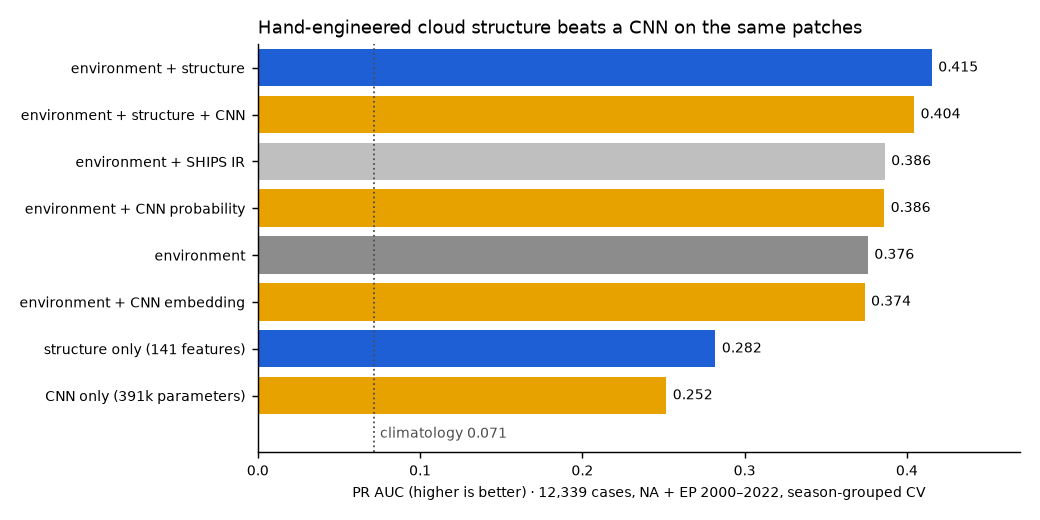
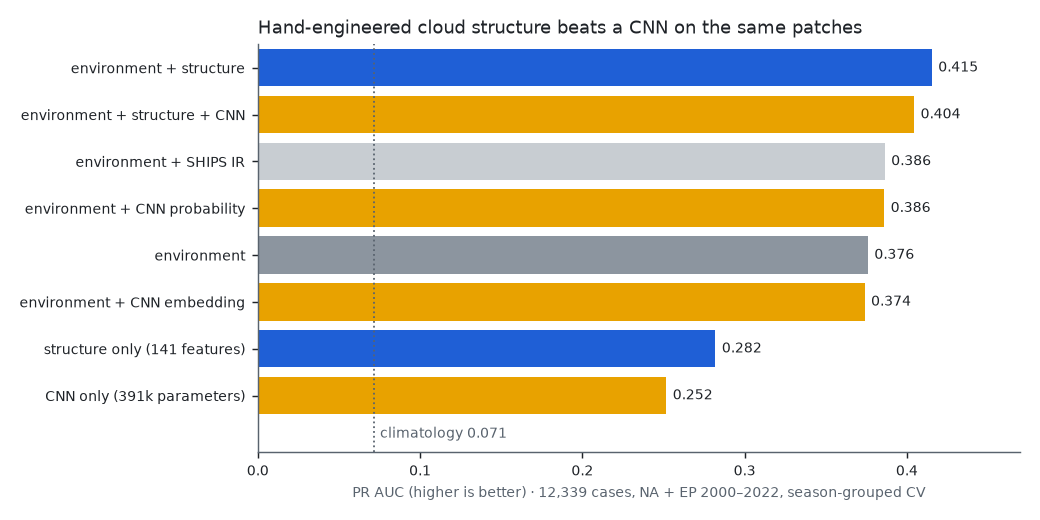
Add data-free tests + CI on pandas 2 and 3, dark-mode chart, smaller GIF
- tests/test_core.py: RI labels at the 30 kt boundary, unverifiable tail,
  land flags, episode merging, synoptic filtering, metrics on known
  cases, Dvorak table and the A2 rate ceiling, km-fixed patch grid,
  dateline wrap, and storm_patch sampling a synthetic field.
- .github/workflows/tests.yml: compileall + pytest on Python 3.11 with
  pandas 2 and Python 3.12 with pandas 3 (no torch needed).
- README: tests badge; results chart switches to a dark variant via
  <picture>; Headline numbers now say which sample (all basins vs NA+EP)
  each figure comes from, since +0.019 and +0.010 looked contradictory.
- GIF uses one shared palette: 2.6 MB -> 2.2 MB and no colour flicker.

diff --git a/tests/test_core.py b/tests/test_core.py
@@ -1,0 +1,115 @@
+"""Data-free checks of the pieces every result depends on.
+
+None of these touch the network or data/, so they run in CI. They pin down
+the RI definition, episode counting, the metrics, and the patch geometry --
+the places where a library upgrade (pandas 3 changing datetime resolution,
+for one) can silently change numbers without raising.
+"""
+import sys
+from pathlib import Path
+
+import numpy as np
+import pandas as pd
+import pytest
+import xarray as xr
+
+sys.path.insert(0, str(Path(__file__).resolve().parents[1] / "src"))
+from tcri import evaluate, gridsat, ibtracs, provenance  # noqa: E402
+
+
+def synthetic_track(winds, sid="2005001N10100", basin="NA", d2l=500.0):
+    t = pd.date_range("2005-08-26 00:00", periods=len(winds), freq="6h")
+    return pd.DataFrame({
+        "SID": sid, "SEASON": 2005, "BASIN": basin, "NAME": "TEST",
+        "ISO_TIME": t, "NATURE": "TS", "LAT": 20.0, "LON": -60.0,
+        "USA_WIND": np.asarray(winds, dtype=float), "DIST2LAND": d2l,
+    })
+
+
+# ------------------------------------------------------------- RI labels
+def test_ri_label_uses_24h_change_and_threshold():
+    #           00  06  12  18  00  06  12  18  00
+    winds = [30, 35, 40, 50, 60, 65, 70, 75, 80]
+    s = ibtracs.build_ri_samples(synthetic_track(winds)).set_index("ISO_TIME")
+    t0 = pd.Timestamp("2005-08-26 00:00")
+    assert s.loc[t0, "dv24"] == 30 and s.loc[t0, "ri"] == 1        # exactly 30
+    t1 = pd.Timestamp("2005-08-26 06:00")
+    assert s.loc[t1, "dv24"] == 30 and s.loc[t1, "ri"] == 1
+    t3 = pd.Timestamp("2005-08-26 18:00")
+    assert s.loc[t3, "dv24"] == 25 and s.loc[t3, "ri"] == 0
+    # The last 24 h have no verifying fix: unknown, not negative.
+    tail = s.iloc[-4:]
+    assert tail["ri"].isna().all() and not tail["verifiable"].any()
+
+
+def test_land_and_weak_cases_are_flagged():
+    s = ibtracs.build_ri_samples(synthetic_track([20, 30, 40, 50, 60], d2l=0))
+    assert not s["elig_t0"].any()           # over land (DIST2LAND == 0)
+    assert not s["overwater_24h"].any()
+
+
+def test_episodes_merge_consecutive_positives():
+    winds = [30, 35, 40, 50, 60, 65, 70, 75, 80]
+    s = ibtracs.build_ri_samples(synthetic_track(winds))
+    ep = ibtracs.label_episodes(s)
+    assert len(ep) == 3                      # 00, 06, 12 UTC are RI ...
+    assert ep["episode_id"].nunique() == 1   # ... but one burst
+
+
+def test_synoptic_filter_drops_offhour_and_duplicates():
+    df = synthetic_track([30, 40, 50])
+    extra = df.iloc[[0]].copy()
+    extra["ISO_TIME"] = pd.Timestamp("2005-08-26 03:00")
+    df = pd.concat([df, extra, df.iloc[[1]]])
+    df["TRACK_TYPE"] = "main"
+    out = ibtracs.to_synoptic(df)
+    assert len(out) == 3 and (out["ISO_TIME"].dt.hour % 6 == 0).all()
+
+
+# ------------------------------------------------------------- metrics
+def test_metrics_on_known_cases():
+    y = np.array([0] * 90 + [1] * 10)
+    perfect = evaluate.summary(y, y.astype(float))
+    assert perfect["ROC_AUC"] == 1 and perfect["PR_AUC"] == 1
+    clim = evaluate.summary(y, np.full(100, 0.1))
+    assert clim["BSS"] == pytest.approx(0.0, abs=1e-12)
+    assert clim["PR_AUC"] == pytest.approx(0.1)
+
+
+# ------------------------------------------------------------- provenance
+def test_dvorak_table_values():
+    assert list(provenance.is_dvorak_value([65, 60, 90, 100, 115])) == \
+        [True, False, True, True, True]
+    # Typical +1 T/day never reaches the 30 kt RI threshold (Experiment A2).
+    for kt in (35, 45, 55, 65, 77, 90, 102, 115):
+        assert provenance.dvorak_rate_ceiling(kt) < 30
+
+
+# ------------------------------------------------------------- patches
+def test_target_grid_is_fixed_in_km_not_degrees():
+    for lat0 in (10.0, 35.0):
+        lat, lon = gridsat.target_grid(lat0, -60.0, n=11, km=8.0)
+        dlat_km = (lat[0, 5] - lat[1, 5]) * gridsat.KM_PER_DEG
+        dlon_km = ((lon[5, 6] - lon[5, 5]) * gridsat.KM_PER_DEG
+                   * np.cos(np.radians(lat[5, 5])))
+        assert dlat_km == pytest.approx(8.0, rel=1e-6)
+        assert dlon_km == pytest.approx(8.0, rel=1e-3)
+        assert lat[5, 5] == pytest.approx(lat0)
+
+
+def test_target_grid_wraps_dateline():
+    _, lon = gridsat.target_grid(15.0, 179.9, n=21, km=8.0)
+    assert lon.min() >= -180 and lon.max() < 180
+    assert (lon < 0).any() and (lon > 0).any()
+
+
+def test_storm_patch_samples_the_right_place():
+    lats = np.arange(-30, 30.0001, 0.07)
+    lons = np.arange(-180, 180, 0.07)
+    field = np.add.outer(lats, np.zeros_like(lons)).astype(np.float32)
+    da = xr.DataArray(field, coords={"lat": lats, "lon": lons},
+                      dims=("lat", "lon"))
+    patch, nanfrac = gridsat.storm_patch(da, 12.3, -45.6, n=33, km=8.0)
+    assert nanfrac == 0
+    assert patch[16, 16] == pytest.approx(12.3, abs=0.01)   # centre
+    assert patch[0, 16] > patch[-1, 16]                      # north on top

diff --git a/scripts/21_readme_figures.py b/scripts/21_readme_figures.py
@@ -152,8 +152,17 @@ def make_gif(k: pd.DataFrame, gridsat_dir: Path | None = None) -> Path:
         buf.seek(0)
         frames.append(Image.open(buf).convert("RGB").copy())
 
-    pal = [f.quantize(colors=128, method=Image.Quantize.MEDIANCUT,
-                      dither=Image.Dither.NONE) for f in frames]
+    # One palette for every frame: no colour flicker between frames, and the
+    # GIF encoder can skip pixels that did not change (most of the chart).
+    w, h = frames[0].size
+    sample = frames[::4]
+    strip = Image.new("RGB", (w, h * len(sample)))
+    for i, f in enumerate(sample):
+        strip.paste(f, (0, h * i))
+    shared = strip.quantize(colors=160, method=Image.Quantize.MEDIANCUT,
+                            dither=Image.Dither.NONE)
+    pal = [f.quantize(palette=shared, dither=Image.Dither.NONE)
+           for f in frames]
     durations = [260] * len(pal)
     durations[-1] = 1800
     out = REPORTS_DIR / "readme_katrina.gif"
@@ -162,39 +171,55 @@ def make_gif(k: pd.DataFrame, gridsat_dir: Path | None = None) -> Path:
     return out
 
 
-def make_results() -> Path:
+THEMES = {
+    # GitHub's own page colours, so the chart sits flush in either mode.
+    "light": dict(bg="#ffffff", fg="#1f2328", dim="#59636e",
+                  env="#8c959f", ships="#c8cdd2", structure="#1f5fd6",
+                  cnn="#e8a200", suffix=""),
+    "dark": dict(bg="#0d1117", fg="#f0f3f6", dim="#9198a1",
+                 env="#57606a", ships="#8b949e", structure="#4c8dff",
+                 cnn="#f0b429", suffix="_dark"),
+}
+
+
+def make_results(theme: str = "light") -> Path:
+    c = THEMES[theme]
     r = pd.read_csv(REPORTS_DIR / "final_comparison_recon_2000_2022.csv")
     base = float(r.loc[r.model == "climatology", "PR_AUC"].iloc[0])
     r = r[r.model != "climatology"].sort_values("PR_AUC")
 
     def colour(m):
         if m == "environment":
-            return "0.55"
+            return c["env"]
         if "structure" in m and "CNN" not in m:
-            return "#1f5fd6"
+            return c["structure"]
         if "CNN" in m:
-            return "#e8a200"
-        return "0.75"
+            return c["cnn"]
+        return c["ships"]
 
-    fig, ax = plt.subplots(figsize=(8.0, 4.0), dpi=130)
+    fig, ax = plt.subplots(figsize=(8.0, 4.0), dpi=130, facecolor=c["bg"])
+    ax.set_facecolor(c["bg"])
     ax.barh(r.model, r.PR_AUC, color=[colour(m) for m in r.model])
     for y, v in enumerate(r.PR_AUC):
-        ax.text(v + 0.004, y, f"{v:.3f}", va="center", fontsize=8)
-    ax.axvline(base, color="0.3", ls=":", lw=1)
+        ax.text(v + 0.004, y, f"{v:.3f}", va="center", fontsize=8,
+                color=c["fg"])
+    ax.axvline(base, color=c["dim"], ls=":", lw=1)
     ax.text(base + 0.004, -0.9, f"climatology {base:.3f}", fontsize=7.5,
-            color="0.3")
+            color=c["dim"])
     ax.set_xlim(0, 0.47)
     ax.set_ylim(-1.2, len(r) - 0.5)
     ax.set_xlabel("PR AUC (higher is better) · 12,339 cases, NA + EP 2000–2022, "
-                  "season-grouped CV", fontsize=8)
-    ax.tick_params(labelsize=8)
+                  "season-grouped CV", fontsize=8, color=c["dim"])
+    ax.tick_params(labelsize=8, colors=c["fg"])
     for s in ("top", "right"):
         ax.spines[s].set_visible(False)
+    for s in ("left", "bottom"):
+        ax.spines[s].set_color(c["dim"])
     ax.set_title("Hand-engineered cloud structure beats a CNN on the same "
-                 "patches", fontsize=10, loc="left")
+                 "patches", fontsize=10, loc="left", color=c["fg"])
     fig.tight_layout()
-    out = REPORTS_DIR / "readme_results.png"
-    fig.savefig(out, facecolor="white")
+    out = REPORTS_DIR / f"readme_results{c['suffix']}.png"
+    fig.savefig(out, facecolor=c["bg"])
     plt.close(fig)
     return out
 
@@ -265,7 +290,8 @@ def main():
     ap.add_argument("--social-only", action="store_true",
                     help="skip the 28-frame GIF")
     args = ap.parse_args()
-    print(f"wrote {make_results()}")
+    for theme in THEMES:
+        print(f"wrote {make_results(theme)}")
     k = katrina_track(args.ibtracs)
     print(f"wrote {make_social(k, args.gridsat_dir)}")
     if not args.social_only:

diff --git a/README.md b/README.md
@@ -2,6 +2,7 @@
 
 **衛星雲圖看得出颱風即將爆發增強嗎？**
 
+[![tests](https://github.com/Sharkeeeeeee/tropical-cyclone-ri/actions/workflows/tests.yml/badge.svg)](https://github.com/Sharkeeeeeee/tropical-cyclone-ri/actions/workflows/tests.yml)
 [![License: MIT](https://img.shields.io/badge/license-MIT-blue.svg)](LICENSE)
 ![Data: 100% public](https://img.shields.io/badge/data-100%25%20public%20NOAA-2ea44f.svg)
 ![Runs on CPU](https://img.shields.io/badge/runs%20on-CPU-lightgrey.svg)
@@ -31,7 +32,10 @@ already says.
    learning to imitate Dvorak analysts instead of physics.
    ([Experiment A](reports/experiment_a_report.md))
 
-![PR AUC of every model in the reconnaissance-era comparison: environment + structure is best at 0.415; CNN only is 0.252](reports/readme_results.png)
+<picture>
+  <source media="(prefers-color-scheme: dark)" srcset="reports/readme_results_dark.png">
+  <img alt="PR AUC of every model in the reconnaissance-era comparison: environment + structure is best at 0.415; CNN only is 0.252" src="reports/readme_results.png">
+</picture>
 
 > **中文簡介**：「快速增強」指颱風 24 小時內增強 30 節以上，是颱風預報最容易失準、
 > 也最危險的情況。本專案只用公開的 NOAA 衛星紅外線雲圖和最佳路徑資料，檢驗
@@ -76,14 +80,19 @@ that server is down, download the whole files from the
   globally. Not 3,718 — consecutive 6-hourly hits inside one intensification
   burst are near-duplicates. This is a small-data problem.
 * Base rate **9.2%**. Accuracy is meaningless here and is never reported.
+Two samples appear below, and their numbers are not interchangeable. **All
+basins** is every SHIPS case from all six basins (31,991 cases, base rate 9.2%).
+**NA + EP** is the reconnaissance-verified subset that has storm-centred patches
+(12,339 cases, base rate 7.1%). The chart above uses NA + EP.
+
 * Best statistical baseline (gradient boosting, environment + SHIPS IR
-  predictors): **ROC AUC 0.891, PR AUC 0.481, BSS 0.258**.
-* **Hand-engineered cloud structure adds 3.8x what the two classical IR
-  predictors add** (+0.039 vs +0.010 PR AUC over environment alone), with
-  deviation-angle variance the strongest single structural feature.
+  predictors; all basins): **ROC AUC 0.891, PR AUC 0.481, BSS 0.258**.
 * The standard hand-engineered IR predictors add only **+0.019 PR AUC** once the
-  large-scale environment is known. That margin is what the vision model exists
-  to beat.
+  large-scale environment is known (all basins). That margin is what the vision
+  model exists to beat.
+* **Hand-engineered cloud structure adds 3.8x what the two classical IR
+  predictors add** (+0.039 vs +0.010 PR AUC over environment alone; NA + EP),
+  with deviation-angle variance the strongest single structural feature.
 * Patch pipeline validated end-to-end against SHIPS' own IR predictors:
   **r = 0.984** on percent area colder than −30 °C.
 * Best-track intensities are **quantized onto the Dvorak table** in every
@@ -153,6 +162,7 @@ values), so it is optimistic. The vision model must be held to the same standard
 ```
 src/tcri/     config, ibtracs, ships, gridsat, evaluate
 scripts/      numbered, run in order
+tests/        data-free unit tests (python -m pytest tests), run in CI
 data/raw/     downloads (gitignored)
 data/processed/  labels, joined tables, patch memmaps (gitignored)
 reports/      baseline report, validation figures
